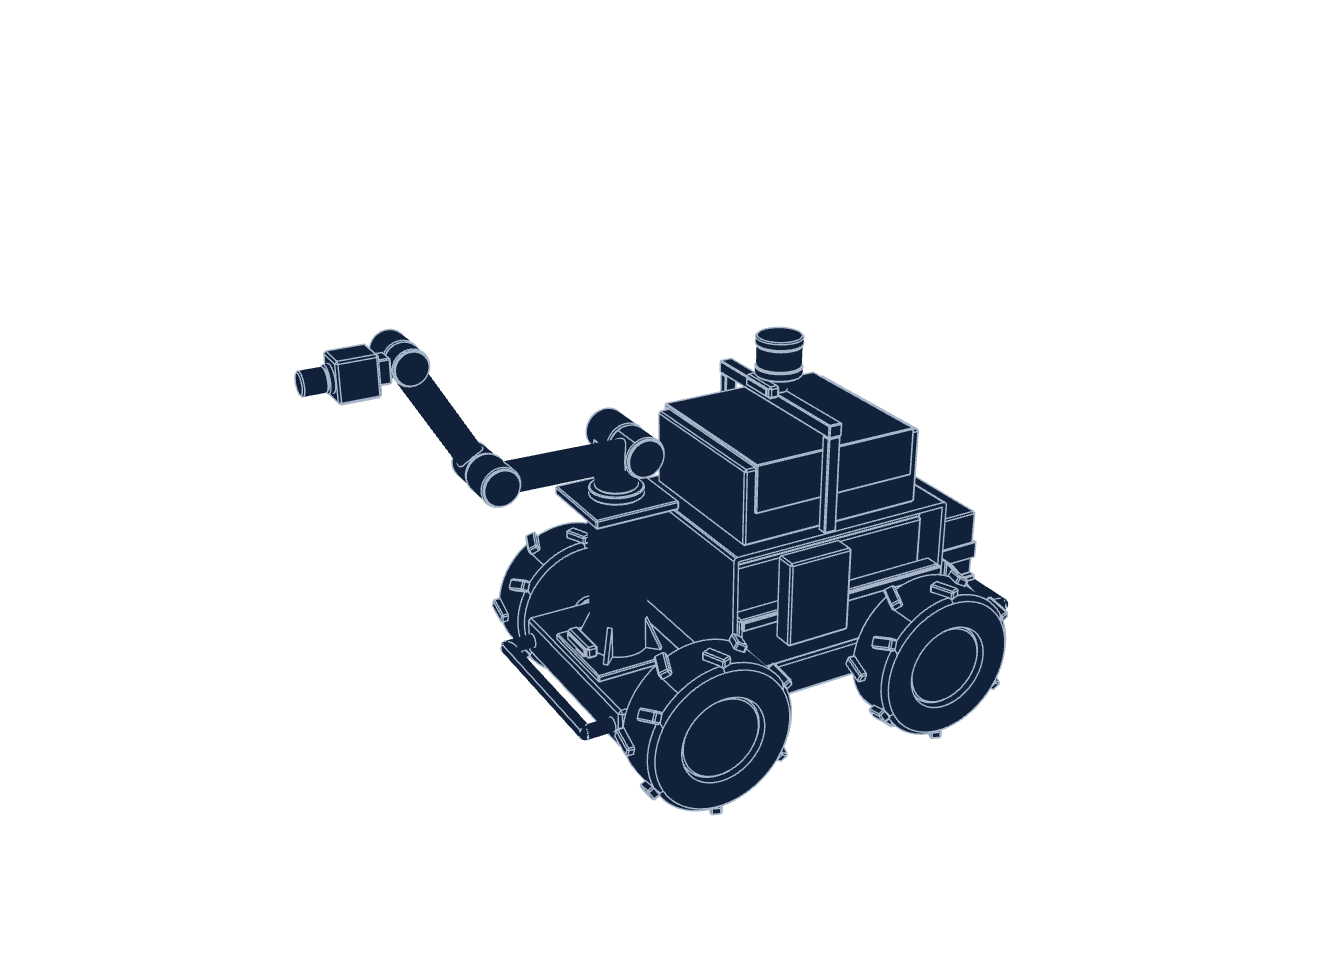
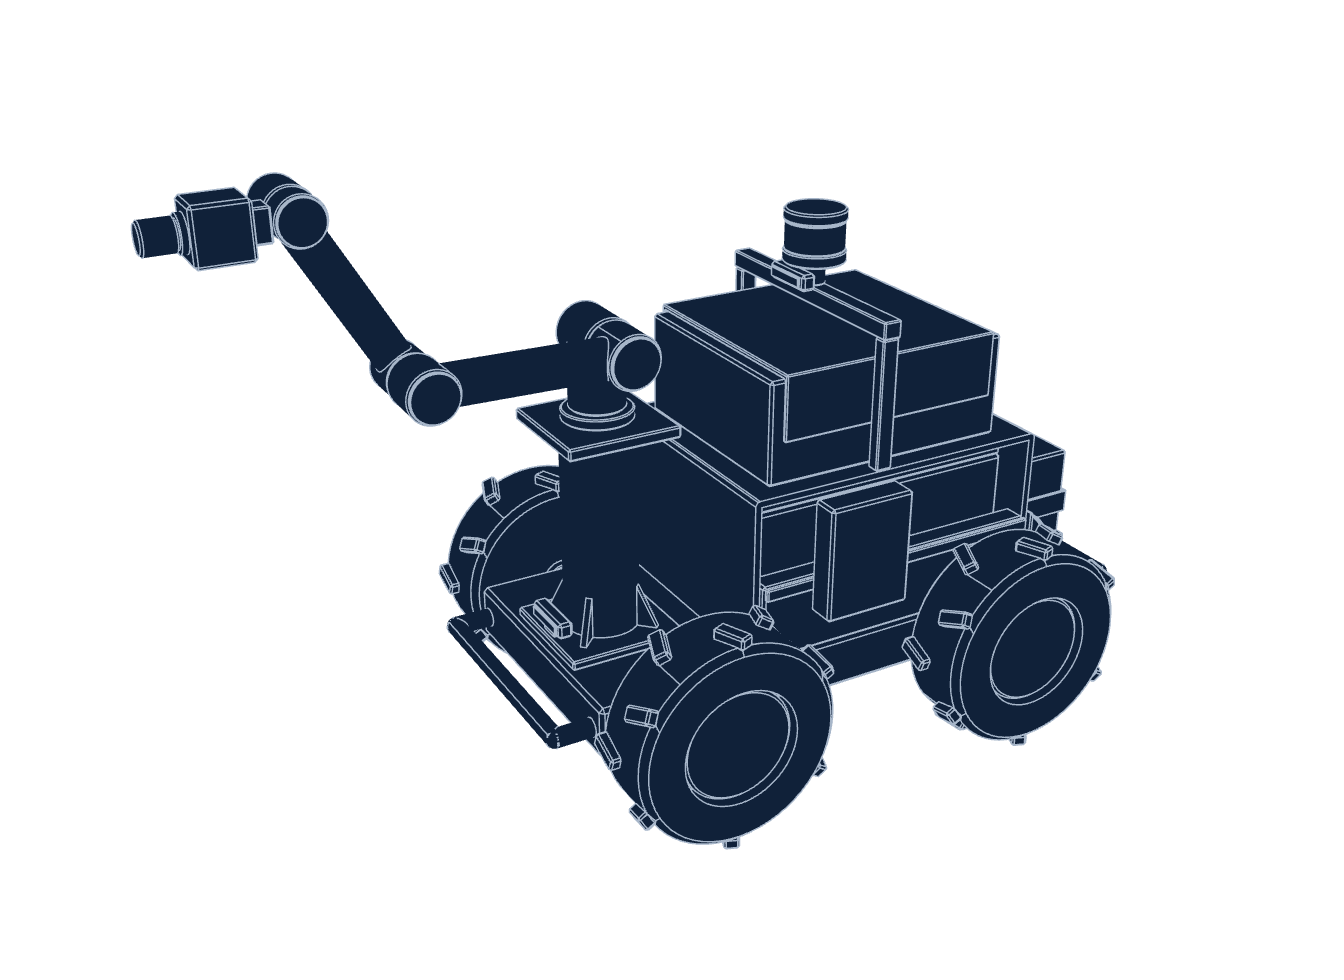
style(3d): scale up and recenter Inductive IR3 stage framing

Changed region(s): [[0.0938, 0.1531, 0.8438, 0.8878]]

diff --git a/src/canvas/models/InductiveRobotModel.tsx b/src/canvas/models/InductiveRobotModel.tsx
@@ -21,9 +21,9 @@ interface ModelProps {
 const toonGradient = createToonGradientMap();
 
 // Calibrated stage framing for Inductive IR3 Autonomous EV Charging Robot
-const DEFAULT_OFFSET: [number, number, number] = [0.0, -0.05, 0.0];
+const DEFAULT_OFFSET: [number, number, number] = [0.0, 0.07, 0.0];
 const DEFAULT_ROTATION_DEG: [number, number, number] = [0.0, -18.0, 0.0];
-const DEFAULT_SCALE = 2.45;
+const DEFAULT_SCALE = 3.2;
 const DEFAULT_ROTATION_SPEED = 0.22;
 
 // Clean-room kinematics matching cad-workspace/build/inductive_clean.py (Y-up meters in clone space)

diff --git a/src/canvas/ModelPreloadManager.ts b/src/canvas/ModelPreloadManager.ts
@@ -2,7 +2,7 @@ import React from 'react';
 
 let dracoConfigured = false;
 
-export const POSTER_VERSION = '20261121-v10';
+export const POSTER_VERSION = '20261121-v11';
 
 let isWindowScrolling = false;
 let scrollStopTimer: ReturnType<typeof setTimeout> | null = null;
